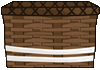
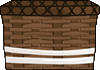
コントローラー攻撃対応

diff --git a/00_vivid2d 2.9 空のプロジェクト/game/src/game/object/player_manager/ball_player_mana/ball_player2/ball_player2.cpp b/00_vivid2d 2.9 空のプロジェクト/game/src/game/object/player_manager/ball_player_mana/ball_player2/ball_player2.cpp
@@ -75,6 +75,7 @@ void CBallPlayer2::Update(void)
 
 	// 左スティック取得
 	vivid::Vector2 stick = controller::GetAnalogStickLeft(controller::DEVICE_ID::PLAYER2);
+	float triger = controller::GetTriggerRight(controller::DEVICE_ID::PLAYER2);
 
 	// デッドゾーン設定
 	const float DEAD_ZONE = 0.5f;
@@ -128,7 +129,7 @@ void CBallPlayer2::Update(void)
 
 	//攻撃
 	if ((keyboard::Trigger(keyboard::KEY_ID::DOWN) ||
-		controller::Trigger(controller::DEVICE_ID::PLAYER2, controller::BUTTON_ID::B)) && m_AttackTimer <= 0)
+		(triger > DEAD_ZONE)) && m_AttackTimer <= 0)
 	{
 		m_AttackTimer = 15;
 		//攻撃開始時はヒットフラグをリセット

diff --git a/00_vivid2d 2.9 空のプロジェクト/game/src/game/object/player_manager/ball_player_mana/ball_player1/ball_player1.cpp b/00_vivid2d 2.9 空のプロジェクト/game/src/game/object/player_manager/ball_player_mana/ball_player1/ball_player1.cpp
@@ -75,6 +75,7 @@ void CBallPlayer1::Update(void)
 
 	// 左スティック取得
 	vivid::Vector2 stick = controller::GetAnalogStickLeft(controller::DEVICE_ID::PLAYER1);
+	float triger = controller::GetTriggerRight(controller::DEVICE_ID::PLAYER1);
 
 	// デッドゾーン設定
 	const float DEAD_ZONE = 0.5f;
@@ -128,7 +129,7 @@ void CBallPlayer1::Update(void)
 
 	//攻撃
 	if ((keyboard::Trigger(keyboard::KEY_ID::S) ||
-		controller::Trigger(controller::DEVICE_ID::PLAYER1, controller::BUTTON_ID::B)) && m_AttackTimer <= 0)
+		(triger > DEAD_ZONE)) && m_AttackTimer <= 0)
 	{
 		m_AttackTimer = 15;
 		//攻撃開始時はヒットフラグをリセット

diff --git a/00_vivid2d 2.9 空のプロジェクト/game/src/game/object/minigame_manager/ball_manager/basket/basket.cpp b/00_vivid2d 2.9 空のプロジェクト/game/src/game/object/minigame_manager/ball_manager/basket/basket.cpp
@@ -22,7 +22,7 @@ void CBasket::Update(const vivid::Vector2& playerPos, int attackTimer, bool isRi
 
     vivid::Vector2 pivot = playerPos;
 
-    const float radius = 80.0f;
+    const float radius = 80.0f;//キャラとの間
 
     if (attackTimer <= 0)
     {
